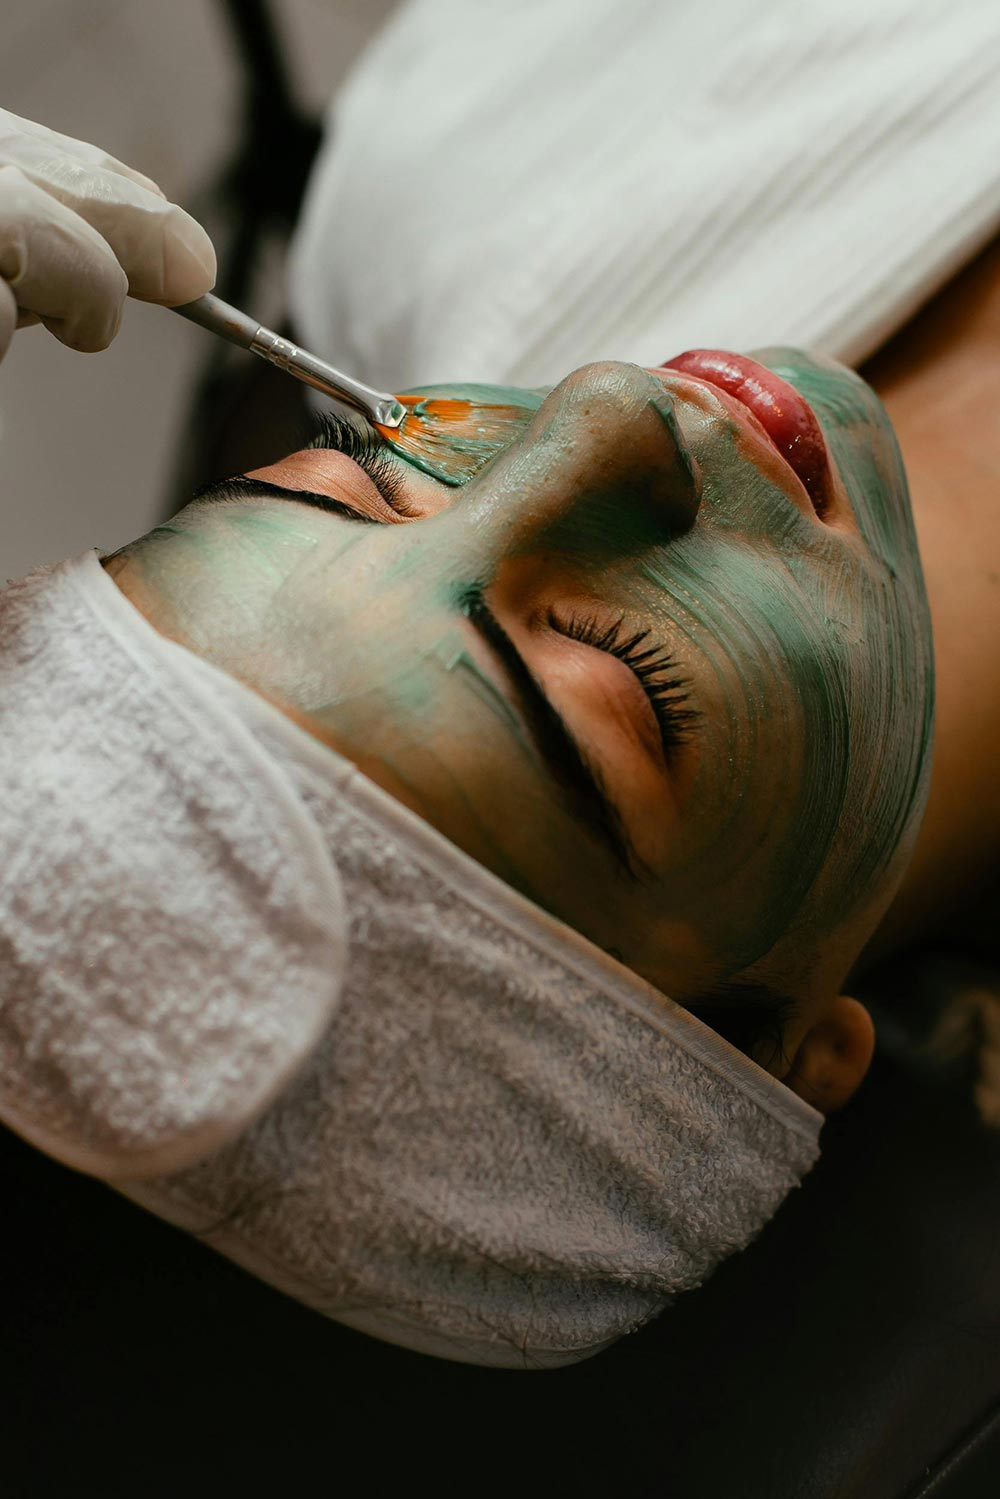
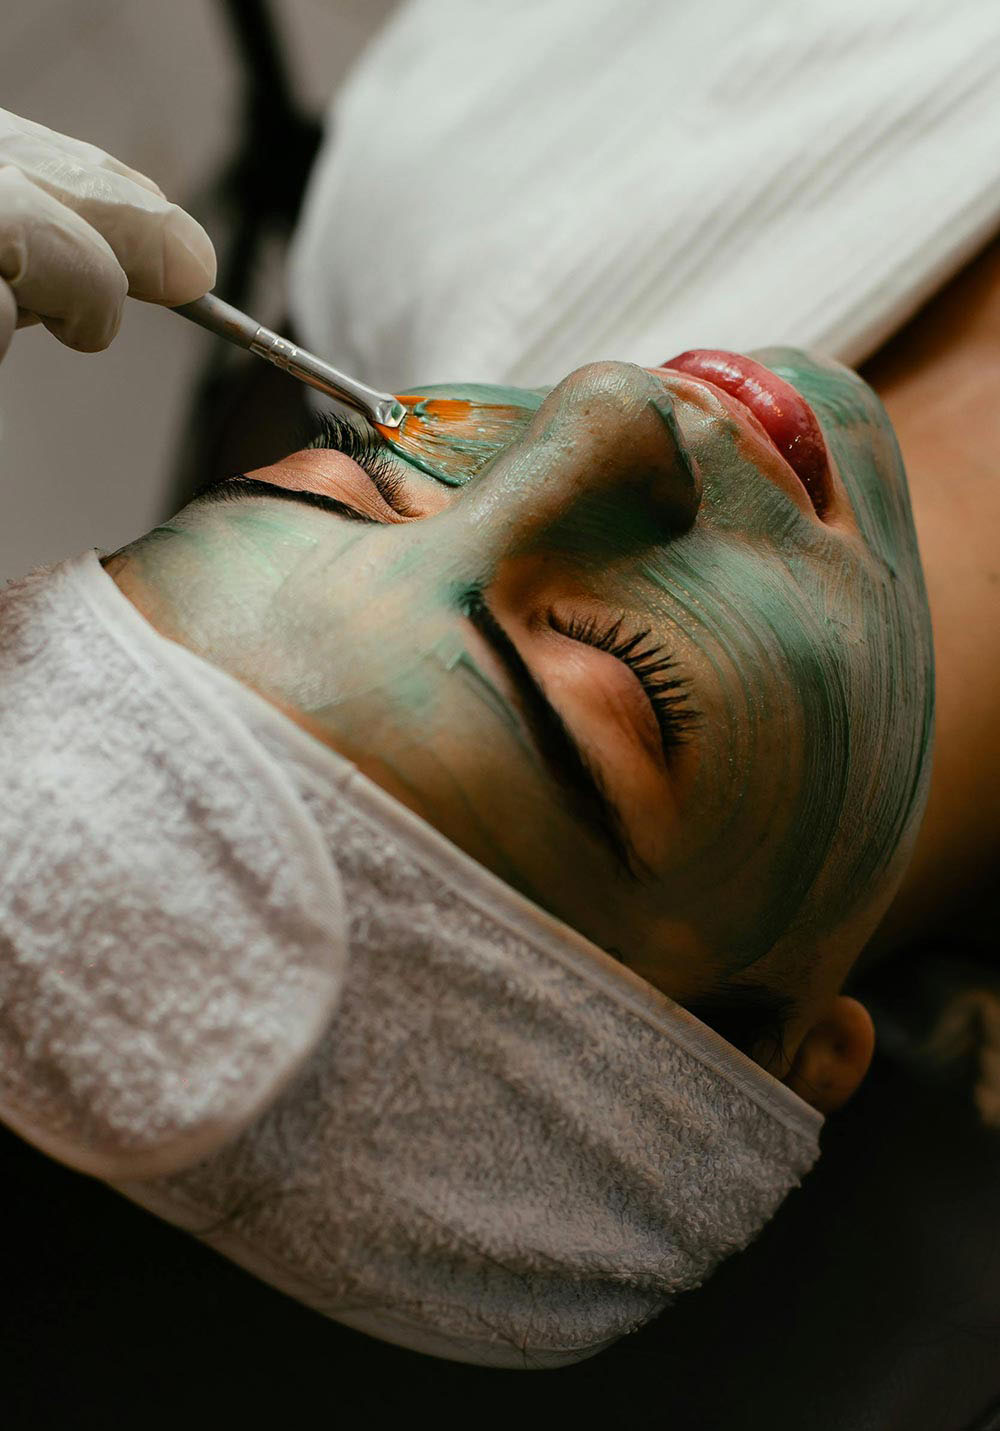
Changed picture on massage service in index + fixed styling on img-cards with grid

diff --git a/styles/_index.scss b/styles/_index.scss
@@ -2,11 +2,20 @@
 @use "variables" as *;
 
 
-h1, h2, h3, h4, h5, h6 {
+h1,
+h2,
+h3,
+h4,
+h5,
+h6 {
     font-family: $font-primary;
 }
 
-p, li, button, input, textarea {
+p,
+li,
+button,
+input,
+textarea {
     font-family: $font-secondary;
 }
 
@@ -68,12 +77,9 @@ p, li, button, input, textarea {
         }
 
         &-cards {
-            display: flex;
-            flex-wrap: wrap;
-            flex-direction: column;
-            justify-content: center;
-            align-items: center;
-            padding: 10px;
+            display: grid;
+            gap: 10px;
+            grid-template-columns: 1fr;
 
             .main-service-card {
                 position: relative;
@@ -105,23 +111,54 @@ p, li, button, input, textarea {
                 }
             }
 
-            @include tablet {
-                flex-direction: row;
-                flex-wrap: wrap;
+
+            @include desktop {
+                .main-services-cards {
+                    grid-template-columns: 1fr 1fr;
+                    grid-auto-rows: 330px;
+                }
+
+                .img1 {
+                    grid-column: 1 / 2;
+                    grid-row: 1 / 3;
+                }
+
+                .img2 {
+                    grid-column: 2 / 3;
+                    grid-row: 1 / 2;
+                }
+
+                .img3 {
+                    grid-column: 2 / 3;
+                    grid-row: 2 / 3;
+                }
+
+                .img4 {
+                    grid-column: 1 / 2;
+                    grid-row: 3 / 4;
+                }
+
+                .img5 {
+                    grid-column: 2 / 3;
+                    grid-row: 3 / 4;
+                }
             }
         }
     }
+}
 
-    @include tablet {
-        h2 {
-            font-size: 40px;
-        }
 
-        h3 {
-            font-size: 30px;
-        }
+
+@include tablet {
+    h2 {
+        font-size: 40px;
+    }
+
+    h3 {
+        font-size: 30px;
     }
 }
+
 
 .main-choice-container {
     background-color: $color-beige-light;
@@ -201,4 +238,3 @@ p, li, button, input, textarea {
         padding-bottom: 1rem;
     }
 }
-

diff --git a/index.html b/index.html
@@ -122,24 +122,23 @@
             <div class="main-services">
                 <h2 class="mt-5">Våra behandlingar</h2>
                 <div class="main-services-cards">
-                    <div class="main-service-card">
+                    <div class="main-service-card img1">
                         <img src="images/ansiktsbehandlingar.jpg" alt="bild på en kvinna som får ansiktsbehandling">
                         <a href="services.html" class="btn">Ansiktsbehandling</a>
                     </div>
-                    <div class="main-service-card">
-                        <img class="mb-4" src="images/eyebrows.jpg" alt="bild på en kvinna som får fransplock">
+                    <div class="main-service-card img2">
+                        <img src="images/eyebrows.jpg" alt="bild på en kvinna som får fransplock">
                         <a href="services.html" class="btn">Fransar & Bryn</a>
                     </div>
-                    <div class="main-service-card">
+                    <div class="main-service-card img3">
                         <img src="images/kemisk-peeling.jpg" alt="bild på en kvinna som får kemisk peeling i ansiktet">
                         <a href="services.html" class="btn">kemisk peeling</a>
                     </div>
-                    <div class="main-service-card">
-                        <img class="massage-img" src="images/massage.jpg"
-                            alt="bild på en kvinna som får ansiktsbehandling">
+                    <div class="main-service-card img4">
+                        <img src="images/massage.jpg" alt="bild på en kvinna som får ansiktsbehandling">
                         <a href="services.html" class="btn">Massage</a>
                     </div>
-                    <div class="main-service-card">
+                    <div class="main-service-card img5">
                         <img src="images/pedikyr.jpg" alt="bild på en kvinna som får ansiktsbehandling">
                         <a href="services.html" class="btn">Pedikyr</a>
                     </div>

diff --git a/styles/styles.css b/styles/styles.css
@@ -537,11 +537,20 @@ a {
   text-align: left;
 }
 
-h1, h2, h3, h4, h5, h6 {
+h1,
+h2,
+h3,
+h4,
+h5,
+h6 {
   font-family: "Hedvig Letters Serif", serif;
 }
 
-p, li, button, input, textarea {
+p,
+li,
+button,
+input,
+textarea {
   font-family: Montserrat, sans-serif;
 }
 
@@ -594,12 +603,9 @@ p, li, button, input, textarea {
   font-size: x-large;
 }
 .main-container .main-services-cards {
-  display: flex;
-  flex-wrap: wrap;
-  flex-direction: column;
-  justify-content: center;
-  align-items: center;
-  padding: 10px;
+  display: grid;
+  gap: 10px;
+  grid-template-columns: 1fr;
 }
 .main-container .main-services-cards .main-service-card {
   position: relative;
@@ -628,21 +634,41 @@ p, li, button, input, textarea {
 .main-container .main-services-cards .main-service-card .massage-img {
   max-height: 350px;
 }
-@media (min-width: 768px) {
-  .main-container .main-services-cards {
-    flex-direction: row;
-    flex-wrap: wrap;
+@media (min-width: 1024px) {
+  .main-container .main-services-cards .main-services-cards {
+    grid-template-columns: 1fr 1fr;
+    grid-auto-rows: 330px;
   }
-}
-@media (min-width: 768px) {
-  .main-container h2 {
-    font-size: 40px;
+  .main-container .main-services-cards .img1 {
+    grid-column: 1/2;
+    grid-row: 1/3;
   }
-  .main-container h3 {
-    font-size: 30px;
+  .main-container .main-services-cards .img2 {
+    grid-column: 2/3;
+    grid-row: 1/2;
+  }
+  .main-container .main-services-cards .img3 {
+    grid-column: 2/3;
+    grid-row: 2/3;
+  }
+  .main-container .main-services-cards .img4 {
+    grid-column: 1/2;
+    grid-row: 3/4;
+  }
+  .main-container .main-services-cards .img5 {
+    grid-column: 2/3;
+    grid-row: 3/4;
   }
 }
 
+@media (min-width: 768px) {
+  h2 {
+    font-size: 40px;
+  }
+  h3 {
+    font-size: 30px;
+  }
+}
 .main-choice-container {
   background-color: #f4ede5;
   padding: 1rem;
